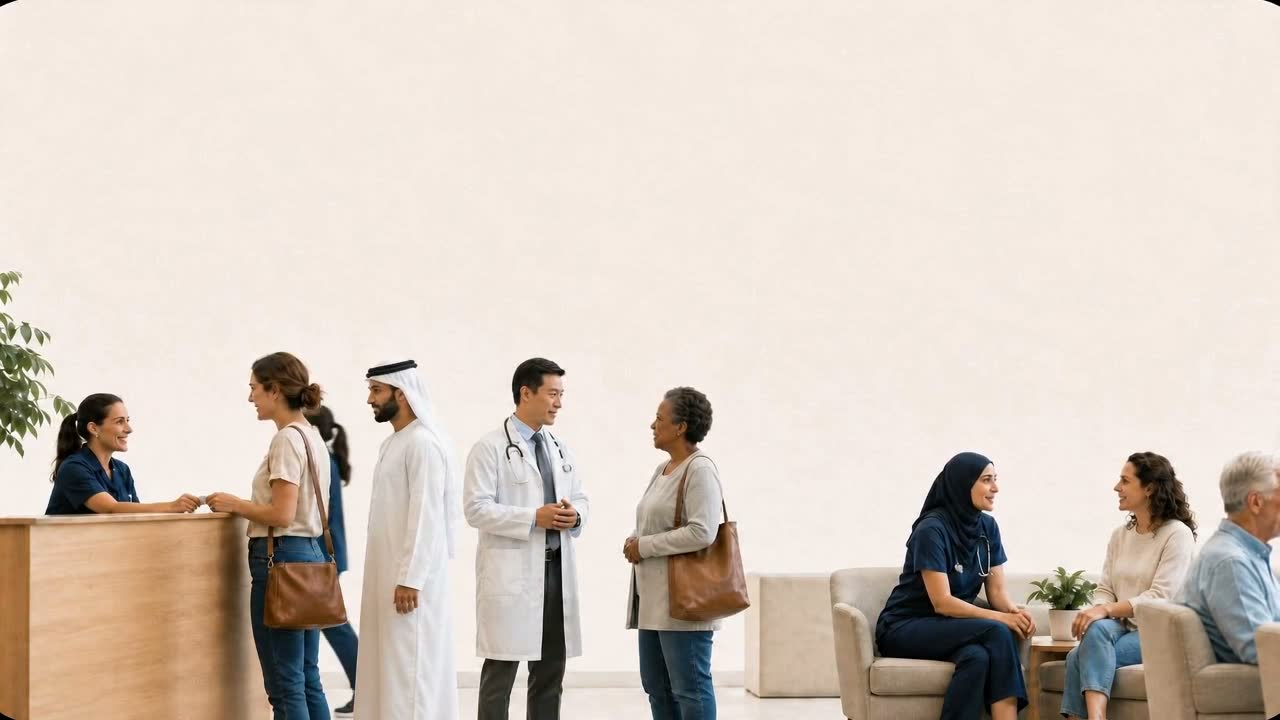
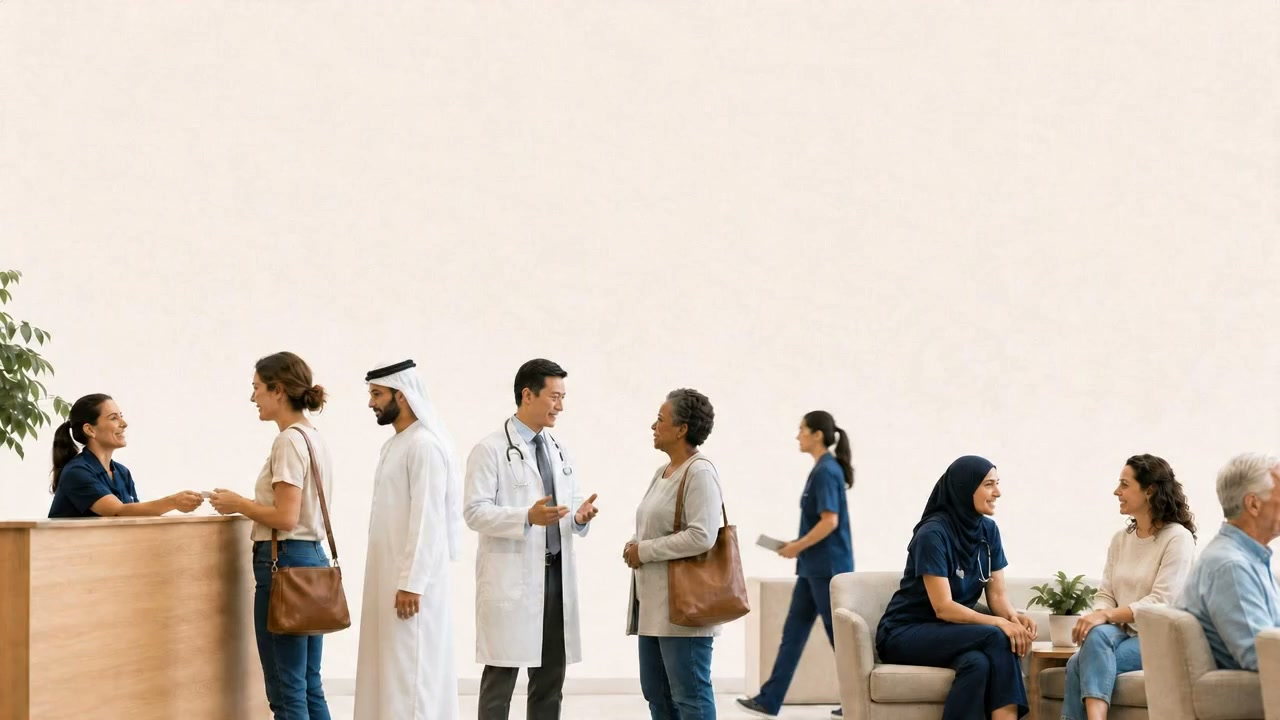
Match video footer reference layout

diff --git a/src/components/landing/layout/Footer.tsx b/src/components/landing/layout/Footer.tsx
@@ -1,12 +1,8 @@
 "use client";
 
 import Link from "next/link";
-import { ZavisLogo } from "./Navbar";
-import {
-  VideoFooterShell,
-  videoFooterHeadingClass,
-  videoFooterLinkClass,
-} from "@/components/layout/VideoFooterShell";
+import { ArrowRight, ChevronDown, Globe2, Search, ShieldCheck, Users } from "lucide-react";
+import { VideoFooterShell } from "@/components/layout/VideoFooterShell";
 
 function InstagramIcon() {
   return (
@@ -34,114 +30,161 @@ function YouTubeIcon() {
 
 const footerLinks = [
   {
-    title: "Solutions",
+    title: "Directory",
     links: [
-      { label: "Dental", href: "/dental" },
-      { label: "Dermatology", href: "/dermatology" },
-      { label: "Optometry", href: "/optometry" },
-      { label: "Orthopedics", href: "/orthopedics" },
-      { label: "ENT", href: "/ent" },
-      { label: "Urgent Care", href: "/urgent-care" },
-      { label: "Mental Health", href: "/mental-health" },
-      { label: "Veterinary", href: "/veterinary" },
-      { label: "Homecare", href: "/homecare" },
-      { label: "Aesthetic", href: "/aesthetic" },
-      { label: "Longevity & Wellness", href: "/longevity-wellness" },
+      { label: "Find a Doctor", href: "/find-a-doctor" },
+      { label: "Top Rated", href: "/directory/dubai/top/hospitals" },
+      { label: "Hospitals", href: "/directory/dubai/hospitals" },
+      { label: "Clinics", href: "/directory/dubai/clinics" },
+      { label: "Labs & Diagnostics", href: "/labs" },
+      { label: "Insurance Navigator", href: "/insurance" },
+      { label: "Medical Pricing", href: "/pricing" },
+      { label: "Verified Reviews", href: "/verified-reviews" },
+      { label: "Get Listed / Edit Profile", href: "/provider-portal" },
+    ],
+  },
+  {
+    title: "Cities",
+    links: [
+      { label: "Dubai", href: "/directory/dubai" },
+      { label: "Abu Dhabi", href: "/directory/abu-dhabi" },
+      { label: "Sharjah", href: "/directory/sharjah" },
+      { label: "Ajman", href: "/directory/ajman" },
+      { label: "Ras Al Khaimah", href: "/directory/ras-al-khaimah" },
+      { label: "Al Ain", href: "/directory/al-ain" },
+      { label: "Fujairah", href: "/directory/fujairah" },
+      { label: "All Cities", href: "/directory" },
     ],
   },
   {
     title: "Platform",
     links: [
-      { label: "Omnichannel Inbox", href: "/chat" },
-      { label: "Voice", href: "/voice" },
+      { label: "For Patients", href: "/directory" },
+      { label: "For Providers", href: "/provider-portal" },
       { label: "AI Agents", href: "/ai-agents" },
       { label: "Bookings", href: "/bookings" },
-      { label: "EMR Integration", href: "/emr" },
       { label: "CRM", href: "/crm" },
+      { label: "EMR Integration", href: "/emr" },
       { label: "Analytics", href: "/analytics" },
       { label: "Automations", href: "/automations" },
-      { label: "Campaigns", href: "/campaigns" },
-      { label: "Payments", href: "/payments" },
+      { label: "Payments & Billing", href: "/payments" },
       { label: "Integrations", href: "/integrations" },
-      { label: "Widgets", href: "/widgets" },
-      { label: "Mobile App", href: "/mobile" },
     ],
   },
   {
-    title: "Resources",
+    title: "Trust",
     links: [
-      { label: "UAE Directory", href: "/directory" },
-      { label: "Intelligence", href: "/intelligence" },
-      { label: "Research", href: "/research" },
+      { label: "Editorial Policy", href: "/editorial-policy" },
+      { label: "Methodology", href: "/methodology" },
+      { label: "Data Sources", href: "/data-sources" },
+      { label: "Corrections Policy", href: "/about/corrections" },
+      { label: "Masthead", href: "/intelligence/author" },
+      { label: "Privacy Policy", href: "/privacy-policy" },
+      { label: "Terms of Service", href: "/terms-of-service" },
+      { label: "Accessibility", href: "/accessibility" },
     ],
   },
   {
     title: "Company",
     links: [
-      { label: "About", href: "/about" },
-      { label: "Book a Demo", href: "/book-a-demo" },
+      { label: "About Zavis", href: "/about" },
+      { label: "Intelligence Reports", href: "/intelligence/reports" },
+      { label: "Press Room", href: "/intelligence/press" },
+      { label: "Careers", href: "/jobs" },
+      { label: "Contact Us", href: "/contact" },
     ],
+  },
+];
+
+const footerProof = [
+  {
+    icon: Search,
+    text: "Find trusted doctors, clinics and hospitals across the GCC.",
+  },
+  {
+    icon: ShieldCheck,
+    text: "Verified data from official sources and Google Places.",
+  },
+  {
+    icon: Users,
+    text: "Built for patients. Designed for better care.",
   },
 ];
 
 export function Footer() {
   return (
     <VideoFooterShell
+      compact
       brand={
         <Link
           href="/"
-          className="inline-flex rounded focus-visible:outline-none focus-visible:ring-2 focus-visible:ring-[#006828] focus-visible:ring-offset-2 focus-visible:ring-offset-[#fbf7f2]"
+          className="inline-flex rounded font-['Bricolage_Grotesque',sans-serif] text-[66px] font-bold leading-none tracking-normal text-black focus-visible:outline-none focus-visible:ring-2 focus-visible:ring-[#006828] focus-visible:ring-offset-2 focus-visible:ring-offset-[#fbf7f2] max-sm:text-5xl"
         >
-          <ZavisLogo />
+          zavis<span className="text-[#00C853]">.</span>
         </Link>
       }
-      description="AI-native Patient Success Platform for healthcare organizations."
+      description="Healthcare directory and patient access intelligence."
       social={
-        <div className="flex items-center gap-3">
-          <a href="https://www.instagram.com/heyzavis" target="_blank" rel="noopener noreferrer" aria-label="Zavis on Instagram" className="text-black/40 transition-colors hover:text-[#006828]">
-            <InstagramIcon />
-          </a>
-          <a href="https://www.linkedin.com/company/zavisai/" target="_blank" rel="noopener noreferrer" aria-label="Zavis on LinkedIn" className="text-black/40 transition-colors hover:text-[#006828]">
-            <LinkedInIcon />
-          </a>
-          <a href="https://www.youtube.com/@zavis-ai" target="_blank" rel="noopener noreferrer" aria-label="Zavis on YouTube" className="text-black/40 transition-colors hover:text-[#006828]">
-            <YouTubeIcon />
-          </a>
+        <div>
+          <div className="h-0.5 w-12 bg-[#16823b]" />
+          <div className="mt-6 space-y-4">
+            {footerProof.map(({ icon: Icon, text }) => (
+              <div key={text} className="flex max-w-[300px] items-center gap-4 font-['Geist',sans-serif] text-[16px] leading-tight text-[#374151]">
+                <span className="flex size-9 shrink-0 items-center justify-center rounded-full border border-[#16823b]/45 text-[#16823b]">
+                  <Icon className="size-4" strokeWidth={1.8} />
+                </span>
+                <span>{text}</span>
+              </div>
+            ))}
+          </div>
+          <div className="mt-7 flex items-center gap-5">
+            <a href="https://www.instagram.com/heyzavis" target="_blank" rel="noopener noreferrer" aria-label="Zavis on Instagram" className="text-[#16823b] transition-colors hover:text-[#006828]">
+              <InstagramIcon />
+            </a>
+            <a href="https://www.linkedin.com/company/zavisai/" target="_blank" rel="noopener noreferrer" aria-label="Zavis on LinkedIn" className="text-[#16823b] transition-colors hover:text-[#006828]">
+              <LinkedInIcon />
+            </a>
+            <a href="https://www.youtube.com/@zavis-ai" target="_blank" rel="noopener noreferrer" aria-label="Zavis on YouTube" className="text-[#16823b] transition-colors hover:text-[#006828]">
+              <YouTubeIcon />
+            </a>
+          </div>
         </div>
       }
       bottom={
-        <div className="flex flex-col gap-4 font-['Geist',sans-serif] text-sm text-black/45 sm:flex-row sm:items-center sm:justify-between">
+        <div className="grid gap-3 font-['Geist',sans-serif] text-sm text-[#374151] sm:grid-cols-3 sm:items-center">
           <span>&copy; 2026 Zavis. All rights reserved.</span>
-          <div className="flex gap-6">
-            <Link href="/privacy-policy" className="transition-colors hover:text-[#006828]">
-              Privacy Policy
-            </Link>
-            <Link href="/terms-of-service" className="transition-colors hover:text-[#006828]">
-              Terms of Service
-            </Link>
+          <span className="text-center max-sm:text-left">
+            Free for all <span className="font-medium text-[#16823b]">UAE residents.</span>
+          </span>
+          <div className="flex items-center gap-2 sm:justify-end">
+            <Globe2 className="size-4" />
+            <span>English</span>
+            <ChevronDown className="size-4" />
           </div>
         </div>
       }
     >
-      <div className="z-no-scrollbar grid grid-flow-col auto-cols-[calc((100%_-_1.5rem)/2)] gap-6 overflow-x-auto pb-1 md:grid-flow-row md:grid-cols-4 md:overflow-visible md:pb-0 lg:gap-8">
+      <div className="grid grid-cols-2 gap-x-8 gap-y-7 sm:grid-cols-3 lg:grid-cols-5 lg:gap-x-12">
           {footerLinks.map((section) => (
             <div key={section.title}>
-              <h4 className={videoFooterHeadingClass}>
+              <h4 className="mb-4 font-['Geist',sans-serif] text-[17px] font-semibold text-[#16823b]">
                 {section.title}
               </h4>
-              <ul className="space-y-1 font-['Geist',sans-serif]">
-                {section.links.map((link) => {
-                  const isExternal = link.href.startsWith("/directory") || link.href.startsWith("/intelligence") || link.href.startsWith("/research");
-                  return (
-                    <li key={link.href}>
-                      {isExternal ? (
-                        <a href={link.href} className={videoFooterLinkClass}>{link.label}</a>
-                      ) : (
-                        <Link href={link.href} className={videoFooterLinkClass}>{link.label}</Link>
-                      )}
-                    </li>
-                  );
-                })}
+              <ul className="space-y-3 font-['Geist',sans-serif]">
+                {section.links.map((link) => (
+                  <li key={link.href}>
+                    <Link href={link.href} className="text-[16px] leading-tight text-[#4b5563] transition-colors hover:text-[#16823b]">
+                      {link.label}
+                    </Link>
+                  </li>
+                ))}
+                {section.title === "Company" ? (
+                  <li className="pt-2">
+                    <Link href="/book-a-demo" className="inline-flex items-center gap-2 font-semibold text-[#16823b] transition-colors hover:text-[#006828]">
+                      Book a Demo <ArrowRight className="size-4" />
+                    </Link>
+                  </li>
+                ) : null}
               </ul>
             </div>
           ))}

diff --git a/src/components/layout/VideoFooterShell.tsx b/src/components/layout/VideoFooterShell.tsx
@@ -19,6 +19,7 @@ type VideoFooterShellProps = {
   trustRail?: ReactNode;
   discoveryRail?: ReactNode;
   bottom: ReactNode;
+  compact?: boolean;
   className?: string;
 };
 
@@ -30,8 +31,81 @@ export function VideoFooterShell({
   trustRail,
   discoveryRail,
   bottom,
+  compact = false,
   className = "",
 }: VideoFooterShellProps) {
+  if (compact) {
+    return (
+      <footer
+        role="contentinfo"
+        aria-label="Site footer"
+        className={`mt-16 bg-[#0b0b0b] px-3 py-4 text-[#1c1c1c] sm:px-4 ${className}`}
+      >
+        <div className="relative mx-auto aspect-[16/9] min-h-[680px] w-full max-w-[1600px] overflow-hidden rounded-[18px] bg-[#fbf7f2] shadow-[0_24px_80px_rgba(0,0,0,0.22)] max-sm:aspect-auto max-sm:min-h-0">
+          <div
+            aria-hidden="true"
+            className="pointer-events-none absolute inset-x-0 top-[15%] h-full bg-[url('/media/footer/zavis-footer-clinic-poster.jpg')] bg-cover bg-center max-sm:hidden"
+          />
+          <video
+            aria-hidden="true"
+            className="pointer-events-none absolute inset-x-0 top-[15%] h-full w-full object-cover object-center motion-reduce:hidden max-sm:hidden"
+            autoPlay
+            loop
+            muted
+            playsInline
+            preload="metadata"
+            poster="/media/footer/zavis-footer-clinic-poster.jpg"
+          >
+            <source src="/media/footer/zavis-footer-clinic-loop.mp4" type="video/mp4" />
+            <source src="/media/footer/zavis-footer-clinic-loop.webm" type="video/webm" />
+          </video>
+          <div
+            aria-hidden="true"
+            className="pointer-events-none absolute inset-x-0 top-0 h-[48%] bg-gradient-to-b from-[#fbf7f2] via-[#fbf7f2]/95 to-[#fbf7f2]/0 max-sm:hidden"
+          />
+          <div
+            aria-hidden="true"
+            className="pointer-events-none absolute inset-0 bg-[radial-gradient(circle_at_50%_12%,rgba(255,255,255,0.58),rgba(255,255,255,0)_45%)] max-sm:hidden"
+          />
+
+          <div className="relative z-10 flex h-full flex-col px-[5.4%] pb-[4.2%] pt-[4.7%] max-sm:h-auto max-sm:px-5 max-sm:py-7">
+            <div className="grid gap-9 lg:grid-cols-6 lg:gap-14">
+              <div className="lg:col-span-2">
+                {brand}
+                <p className="mt-4 max-w-[300px] font-['Geist',sans-serif] text-[21px] leading-[1.2] text-[#374151] max-sm:text-base">
+                  {description}
+                </p>
+                {social ? <div className="mt-6">{social}</div> : null}
+              </div>
+              <div className="lg:col-span-4">{children}</div>
+            </div>
+
+            <div className="mt-8 border-t border-black/15 pt-4">{bottom}</div>
+          </div>
+          <div className="relative z-10 aspect-[16/9] overflow-hidden sm:hidden">
+            <div
+              aria-hidden="true"
+              className="absolute inset-0 bg-[url('/media/footer/zavis-footer-clinic-poster.jpg')] bg-cover bg-center"
+            />
+            <video
+              aria-hidden="true"
+              className="absolute inset-0 h-full w-full object-cover object-center motion-reduce:hidden"
+              autoPlay
+              loop
+              muted
+              playsInline
+              preload="metadata"
+              poster="/media/footer/zavis-footer-clinic-poster.jpg"
+            >
+              <source src="/media/footer/zavis-footer-clinic-loop.mp4" type="video/mp4" />
+              <source src="/media/footer/zavis-footer-clinic-loop.webm" type="video/webm" />
+            </video>
+          </div>
+        </div>
+      </footer>
+    );
+  }
+
   return (
     <footer
       role="contentinfo"
@@ -69,8 +143,8 @@ export function VideoFooterShell({
             preload="metadata"
             poster="/media/footer/zavis-footer-clinic-poster.jpg"
           >
-            <source src="/media/footer/zavis-footer-clinic-loop.webm" type="video/webm" />
             <source src="/media/footer/zavis-footer-clinic-loop.mp4" type="video/mp4" />
+            <source src="/media/footer/zavis-footer-clinic-loop.webm" type="video/webm" />
           </video>
         </div>
       </div>